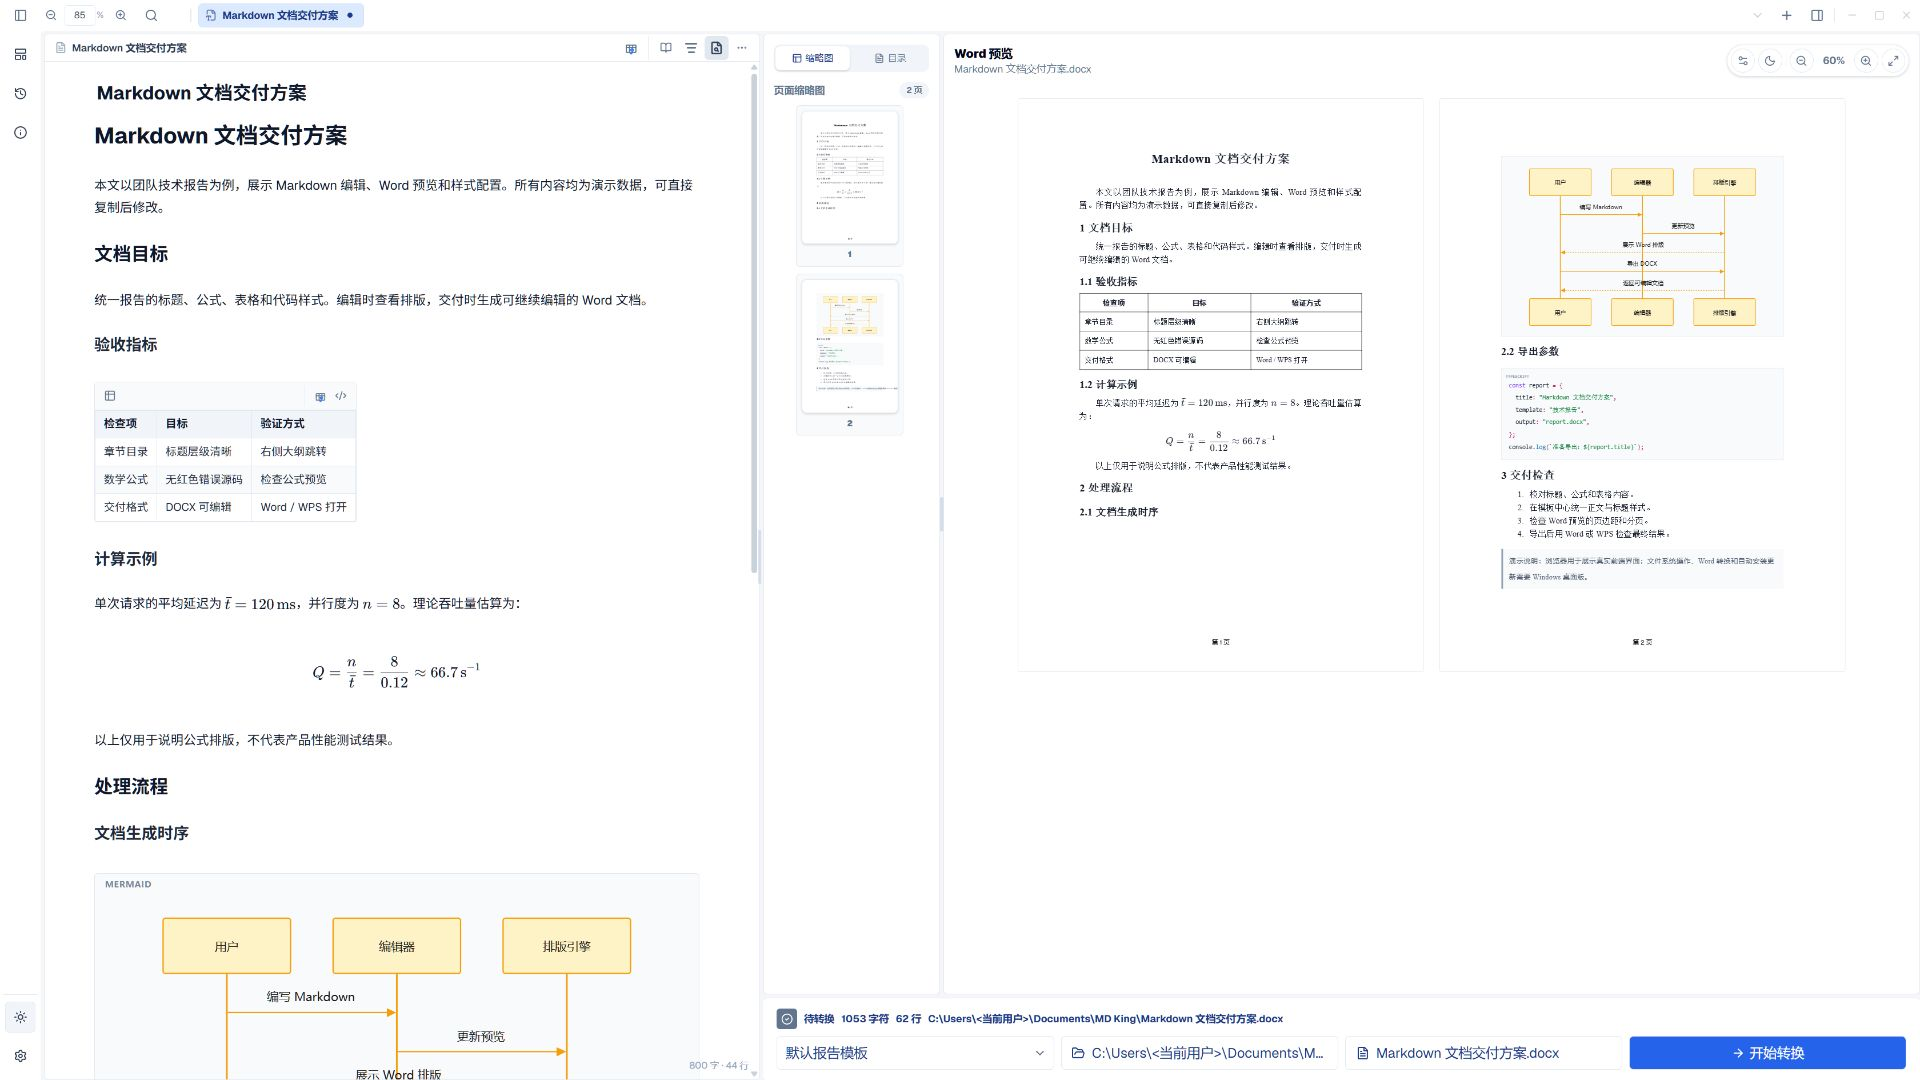
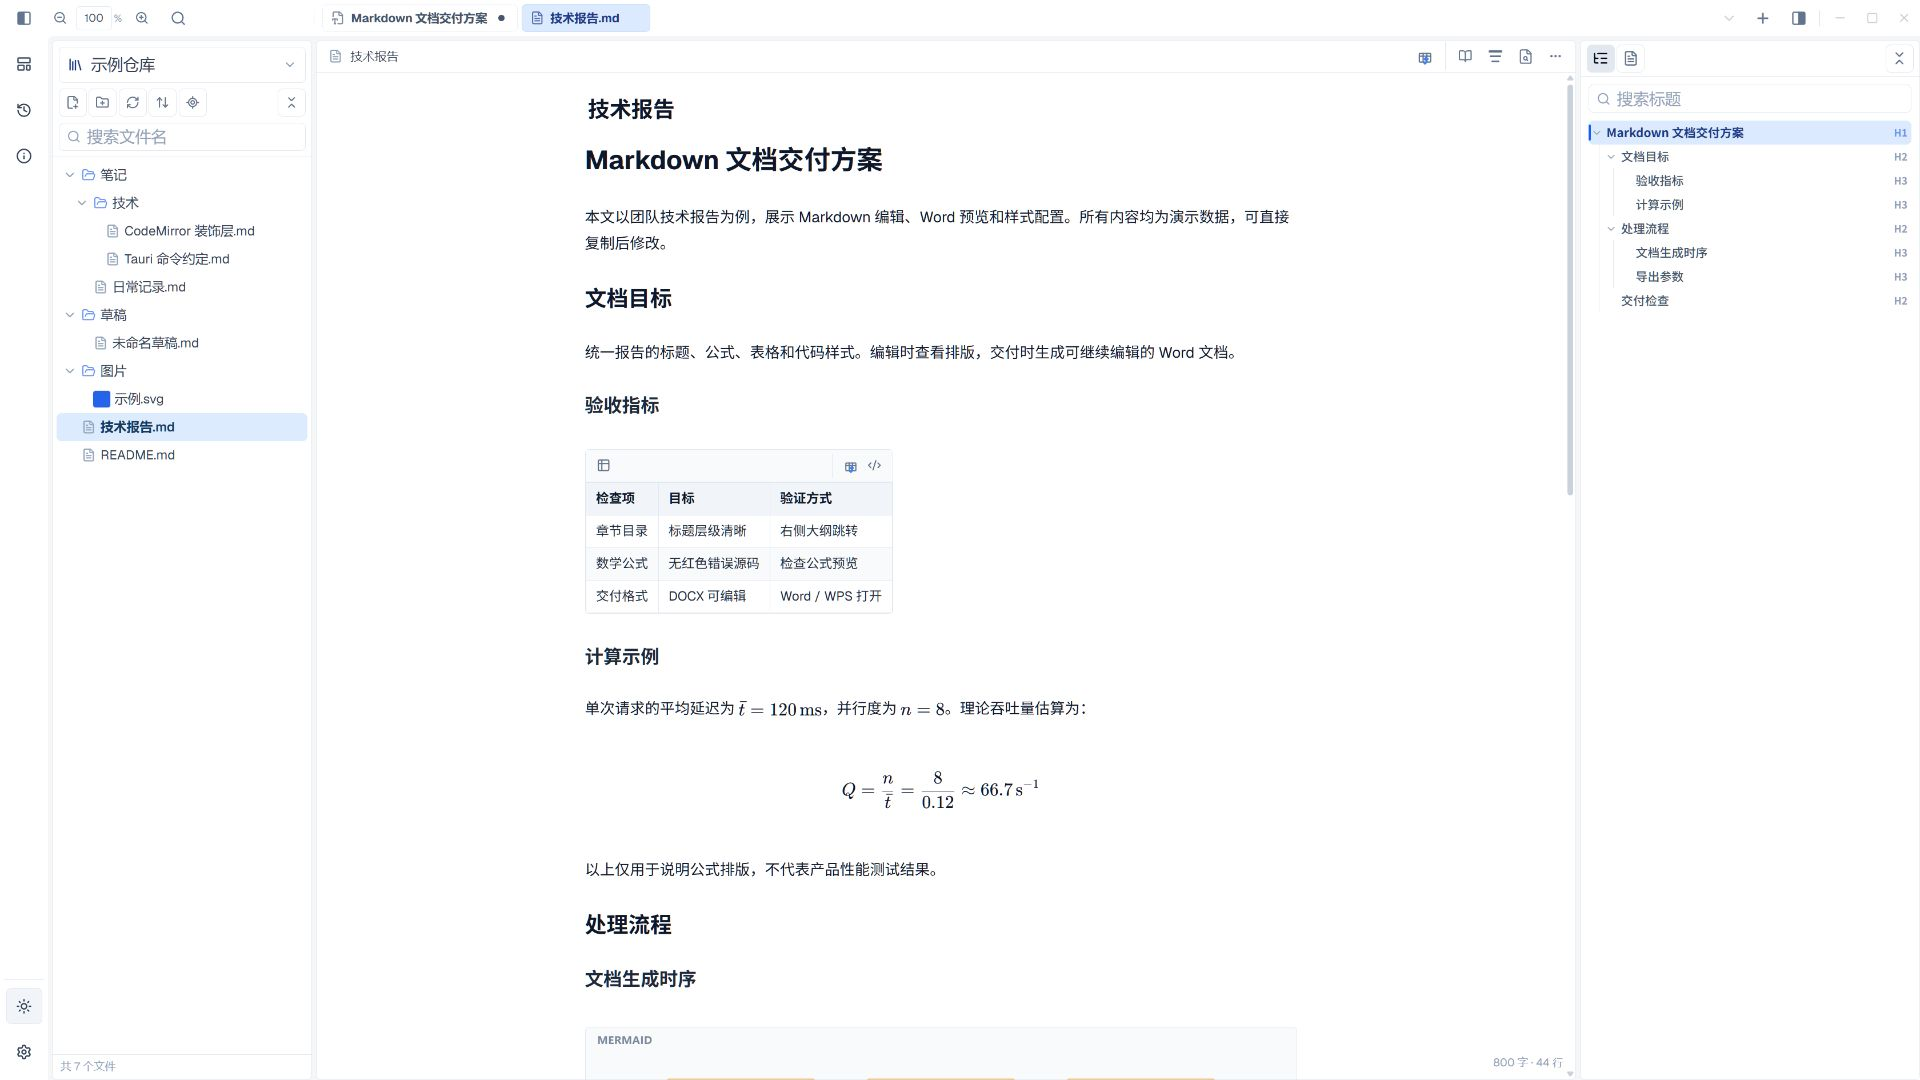
docs: show file tree and outline in first README screenshot

diff --git a/README.md b/README.md
@@ -43,12 +43,12 @@ AI 默认输出极佳的结构化 Markdown；但一旦直接**复制粘贴到 Wo
 
 ## 📸 软件截图与核心功能展示
 
-以下七张应用界面图均为 **v1.1.9 生产构建在浏览器中实际运行的 1920 × 1080 截图**，使用[技术报告示例](docs/examples/technical-report.md)展示表格、公式、时序图与代码；没有使用概念图。浏览器只用于前端展示，文件系统操作、Pandoc 转换、系统集成和自动安装更新需要 Windows 桌面版。DOCX 导出图是文档页面，保留原始纸张比例。
+以下七张应用界面图均为 **v1.1.9 前端生产构建在浏览器中实际运行的 1920 × 1080 截图**，使用[技术报告示例](docs/examples/technical-report.md)展示表格、公式、时序图与代码；没有使用概念图。首图的文件树来自软件自带的浏览器示例仓库。浏览器只用于前端展示，文件系统操作、Pandoc 转换、系统集成和自动安装更新需要 Windows 桌面版。DOCX 导出图是文档页面，保留原始纸张比例。
 
-### 1. 沉浸式 Markdown 双栏工作台
-所见即所得的极客工作台：实时渲染 Markdown、高亮代码块、KaTeX 数学公式与 Mermaid 专业图表，右侧并列展现高保真 Word/WPS DOCX 纸张排版双页视图。
+### 1. 文件树、Markdown 与大纲工作台
+左侧展开文件树，中间编辑 Markdown 文档并实时渲染表格与数学公式，右侧显示多级标题大纲，便于管理文件和定位章节。首图隐藏 Word 预览，集中展示日常写作布局；需要检查导出排版时，可通过工具栏打开 Word/WPS 纸张预览。
 
-![沉浸式 Markdown 工作台](docs/images/feature-workbench.jpg)
+![左侧文件树、中间 Markdown 内容与右侧大纲目录](docs/images/feature-workbench.jpg)
 
 ---
 
